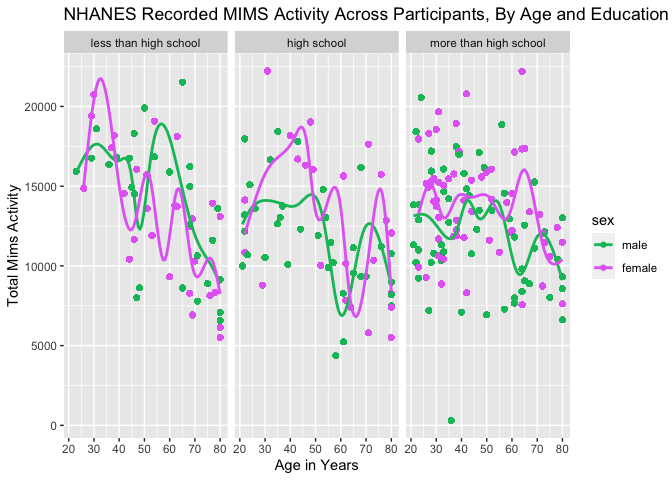
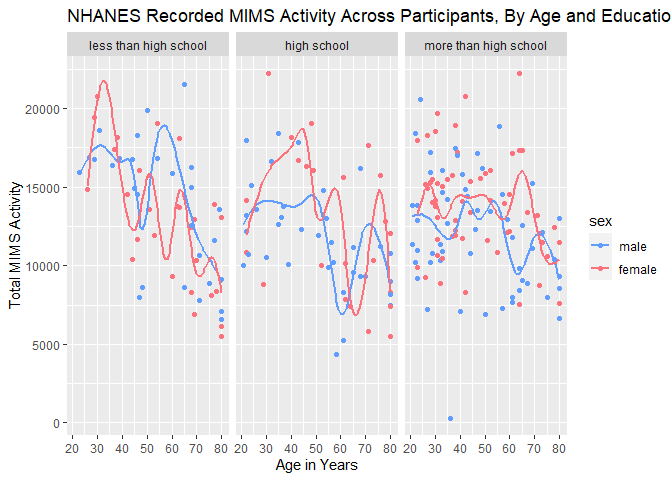
Last ggplot coding section of Problem 3, plotting the full mims activity series by minute and having 24 hour average trendlines, separating cohorts by sex and education status.
Also updated colors in last three graphs to have better coding for sex: blue male, red female

diff --git a/p8015_hw3_agd2159.md b/p8015_hw3_agd2159.md
@@ -12,11 +12,31 @@ to pull in full dataset for exploratory data analysis.
 library(tidyverse)
 ```
 
+    ## Warning: package 'tidyverse' was built under R version 4.2.3
+
+    ## Warning: package 'ggplot2' was built under R version 4.2.3
+
+    ## Warning: package 'tibble' was built under R version 4.2.3
+
+    ## Warning: package 'tidyr' was built under R version 4.2.3
+
+    ## Warning: package 'readr' was built under R version 4.2.3
+
+    ## Warning: package 'purrr' was built under R version 4.2.3
+
+    ## Warning: package 'dplyr' was built under R version 4.2.3
+
+    ## Warning: package 'stringr' was built under R version 4.2.3
+
+    ## Warning: package 'forcats' was built under R version 4.2.3
+
+    ## Warning: package 'lubridate' was built under R version 4.2.3
+
     ## ── Attaching core tidyverse packages ──────────────────────── tidyverse 2.0.0 ──
     ## ✔ dplyr     1.1.3     ✔ readr     2.1.4
     ## ✔ forcats   1.0.0     ✔ stringr   1.5.0
-    ## ✔ ggplot2   3.4.3     ✔ tibble    3.2.1
-    ## ✔ lubridate 1.9.2     ✔ tidyr     1.3.0
+    ## ✔ ggplot2   3.4.4     ✔ tibble    3.2.1
+    ## ✔ lubridate 1.9.3     ✔ tidyr     1.3.0
     ## ✔ purrr     1.0.2     
     ## ── Conflicts ────────────────────────────────────────── tidyverse_conflicts() ──
     ## ✖ dplyr::filter() masks stats::filter()
@@ -25,7 +45,17 @@ library(tidyverse)
 
 ``` r
 library(ggridges)
+```
+
+    ## Warning: package 'ggridges' was built under R version 4.2.3
+
+``` r
 library(patchwork)
+```
+
+    ## Warning: package 'patchwork' was built under R version 4.2.3
+
+``` r
 library(p8105.datasets)
 
 data("instacart")
@@ -638,11 +668,13 @@ older cohort distribution across this educational status for both sexes.
 
 ### Task 4: Accelerometer MIMS Plots
 
-**Plot 1 Guidelines** - *Aggregate across minutes to create a total
-activity variable for each participant. Plot these total activities
-(y-axis) against age (x-axis); your plot should compare men to women and
-have separate panels for each education level. Include a trend line or a
-smooth to illustrate differences. Comment on your plot.*
+**Plot 1 Guidelines**
+
+*Aggregate across minutes to create a total activity variable for each
+participant. Plot these total activities (y-axis) against age (x-axis);
+your plot should compare men to women and have separate panels for each
+education level. Include a trend line or a smooth to illustrate
+differences. Comment on your plot.*
 
 ``` r
 total_activity = nhanes_df |> 
@@ -655,20 +687,81 @@ total_activity |>
   geom_smooth(se = FALSE) + 
   labs(
     title = "NHANES Recorded MIMS Activity Across Participants, By Age and Education",
-    y = "Total Mims Activity",
+    y = "Total MIMS Activity",
     x = "Age in Years"
   ) +
   scale_x_continuous(breaks = scales::pretty_breaks()) +
-  scale_color_hue(h = c(150, 300)) +
-  facet_grid(. ~ education) 
+  scale_color_hue(h = c(255, 8.5)) +
+  facet_grid(. ~ education)
 ```
 
     ## `geom_smooth()` using method = 'gam' and formula = 'y ~ s(x, bs = "cs")'
 
 ![](p8015_hw3_agd2159_files/figure-gfm/unnamed-chunk-16-1.png)<!-- -->
 
-Accelerometer data allows the inspection activity over the course of the
-day. Make a three-panel plot that shows the 24-hour activity time
-courses for each education level and use color to indicate sex. Describe
-in words any patterns or conclusions you can make based on this graph;
-including smooth trends may help identify differences
+This scatterplot visualizaiton identifies the distribution of total MIMS
+activity from each participants accelerometer recordings, organized
+across participant age group, education level, and sex.
+
+`geom_smooth()` was used to produce trendlines across age groups for
+both sex cohorts. Across all three education statuses, there is a
+general decrease in recorded total activity as age increases. There is a
+higher overall range of activity in the ‘less than high school’
+education cohort, with young women in their 20 - 30s having MIMS data
+around or above 20000.
+
+Across all three cohorts, young women appear to have more recorded
+activity than young men. The more than high school educational category
+has high variation but the trendlines with the consistently lower
+average activity at a younger age than the other two education groups.
+This may be due to the stationary nature of most white collar office
+jobs that are common to higher educated professionals.
+
+**Plot 2 Guidelines**
+
+*Make a three-panel plot that shows the 24-hour activity time courses
+for each education level and use color to indicate sex. Including smooth
+trends may help identify differences*
+
+``` r
+activity_time = nhanes_df |> 
+  group_by(seqn)
+
+activity_time |> 
+  ggplot(aes(x = minutes, y = mims_value, color = sex)) +
+  geom_line(alpha = 0.5) +
+  geom_smooth(se = FALSE) +
+  labs(
+    title = "NHANES 24-hour Activity Time by Education Level, Sex",
+    y = "Mims Activity Value",
+    x = "Time (Minutes)"
+  ) +
+  scale_color_hue(h = c(255, 8.5)) +
+  facet_grid(. ~ education) 
+```
+
+    ## `geom_smooth()` using method = 'gam' and formula = 'y ~ s(x, bs = "cs")'
+
+![](p8015_hw3_agd2159_files/figure-gfm/unnamed-chunk-17-1.png)<!-- -->
+
+This supplemental graph isolates the average trendline below for male
+and female participants:
+
+``` r
+activity_trendlines = activity_time |> 
+  ggplot(aes(x = minutes, y = mims_value, color = sex)) +
+  geom_smooth(se = FALSE) +
+  labs(
+    title = "Average Trendlines for NHANES 24-hour Activity Times",
+    y = "Avg. Mims Activity",
+    x = "Time (Minutes)"
+  ) +
+  scale_color_hue(h = c(255, 8.5)) +
+  facet_grid(. ~ education) 
+
+activity_trendlines
+```
+
+    ## `geom_smooth()` using method = 'gam' and formula = 'y ~ s(x, bs = "cs")'
+
+![](p8015_hw3_agd2159_files/figure-gfm/unnamed-chunk-18-1.png)<!-- -->
